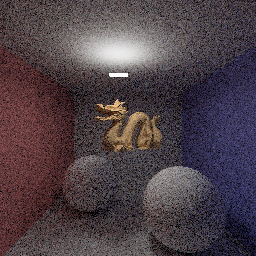
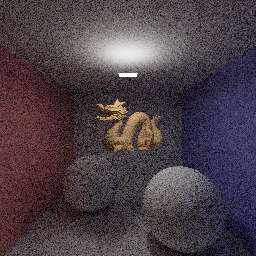
optimization with bvh traversal: checking only nodes that may contain a closer shape

diff --git a/main.cpp b/main.cpp
@@ -102,8 +102,8 @@ int main(int argc, char** argv) {
 		/*new Sphere(600., vec3( 50.,681.6-.27,81.6), vec3(1.0),vec3(12.)) //Light */
 		/*new Sphere(5.,vec3( 50.,81.6-6.,81.6), vec3(1.0), vec3(12.)), //Light*/
 		/* Sphere(20.,vec3( 50.,51.6-6.,81.6), vec3(1.0), vec3(12.)) //Light */
-		new Triangle(vec3(50.,81.6 - 9.,81.6),vec3(42.,81.6 - 9.,76.6),vec3(42.,81.6 - 9.,81.6), vec3(1.0), vec3(50.)), //Light
-		new Triangle(vec3(50.,81.6 - 9.,76.6),vec3(42.,81.6 - 9.,76.6),vec3(50.,81.6 - 9.,81.6), vec3(1.0), vec3(50.)), //Light
+		new Triangle(vec3(54.,81.6 - 9.,81.6),vec3(46.,81.6 - 9.,76.6),vec3(46.,81.6 - 9.,81.6), vec3(1.0), vec3(50.)), //Light
+		new Triangle(vec3(54.,81.6 - 9.,76.6),vec3(46.,81.6 - 9.,76.6),vec3(54.,81.6 - 9.,81.6), vec3(1.0), vec3(50.)), //Light
 	};
 
 	Scene cornellBox(objectList, lightList);
@@ -164,7 +164,6 @@ int main(int argc, char** argv) {
 
 
 			pixels[i][j] = toPixel(col);
-			
 			/*
 			pixels[i][j] = toPixel(col);
 			float t;

diff --git a/pathtracer.cpp b/pathtracer.cpp
@@ -94,7 +94,6 @@ glm::vec3 Pathtracer::radiance(
 			const vec3 light = sampleLight->m_emis;
 
 			LiWeight[depth] = (nee_pdfw*nee_pdfw)/(nee_pdfw*nee_pdfw + brdf_pdf*brdf_pdf);
-			/*printf("%lf %lf %lf %lf\n", R2, light_cos_theta, nee_pdfA, LiWeight[depth]);*/
 			const float cosprod = std::abs(cos_theta*light_cos_theta);
 
 			direct[depth] =
@@ -111,5 +110,6 @@ glm::vec3 Pathtracer::radiance(
 		light_out = (1.f-LiWeight[i])*emission[i] + LiWeight[i]*direct[i] + col[i]*light_out;
 		/*light_out = (emission[i] + col[i]*light_out);*/
 	}
+
 	return light_out;
 }

diff --git a/bvh.cpp b/bvh.cpp
@@ -107,7 +107,7 @@ bool BVH::findIntersection(
 		const std::shared_ptr<BVHNode> node = stack[stackIndex];
 		const float node_t = stack.at(stackIndex)->bound.intersect(ray);
 		// node hit
-		if (node_t < MAX_T ) {
+		if (node_t < t ) {
 			if (node->nShapes == 0) {
 				stack[stackIndex++] = node->children[0];
 				stack[stackIndex++] = node->children[1];

diff --git a/bounds.cpp b/bounds.cpp
@@ -17,5 +17,5 @@ float Bound::intersect(const Ray& ray) const {
 		// ray reenters slab
 		if (t0 > t1) return MAX_T;
 	}
-	return (t0) > MIN_T ? t0 : t1;
+	return (t0) > MIN_T ? t0 : MIN_T;
 }
